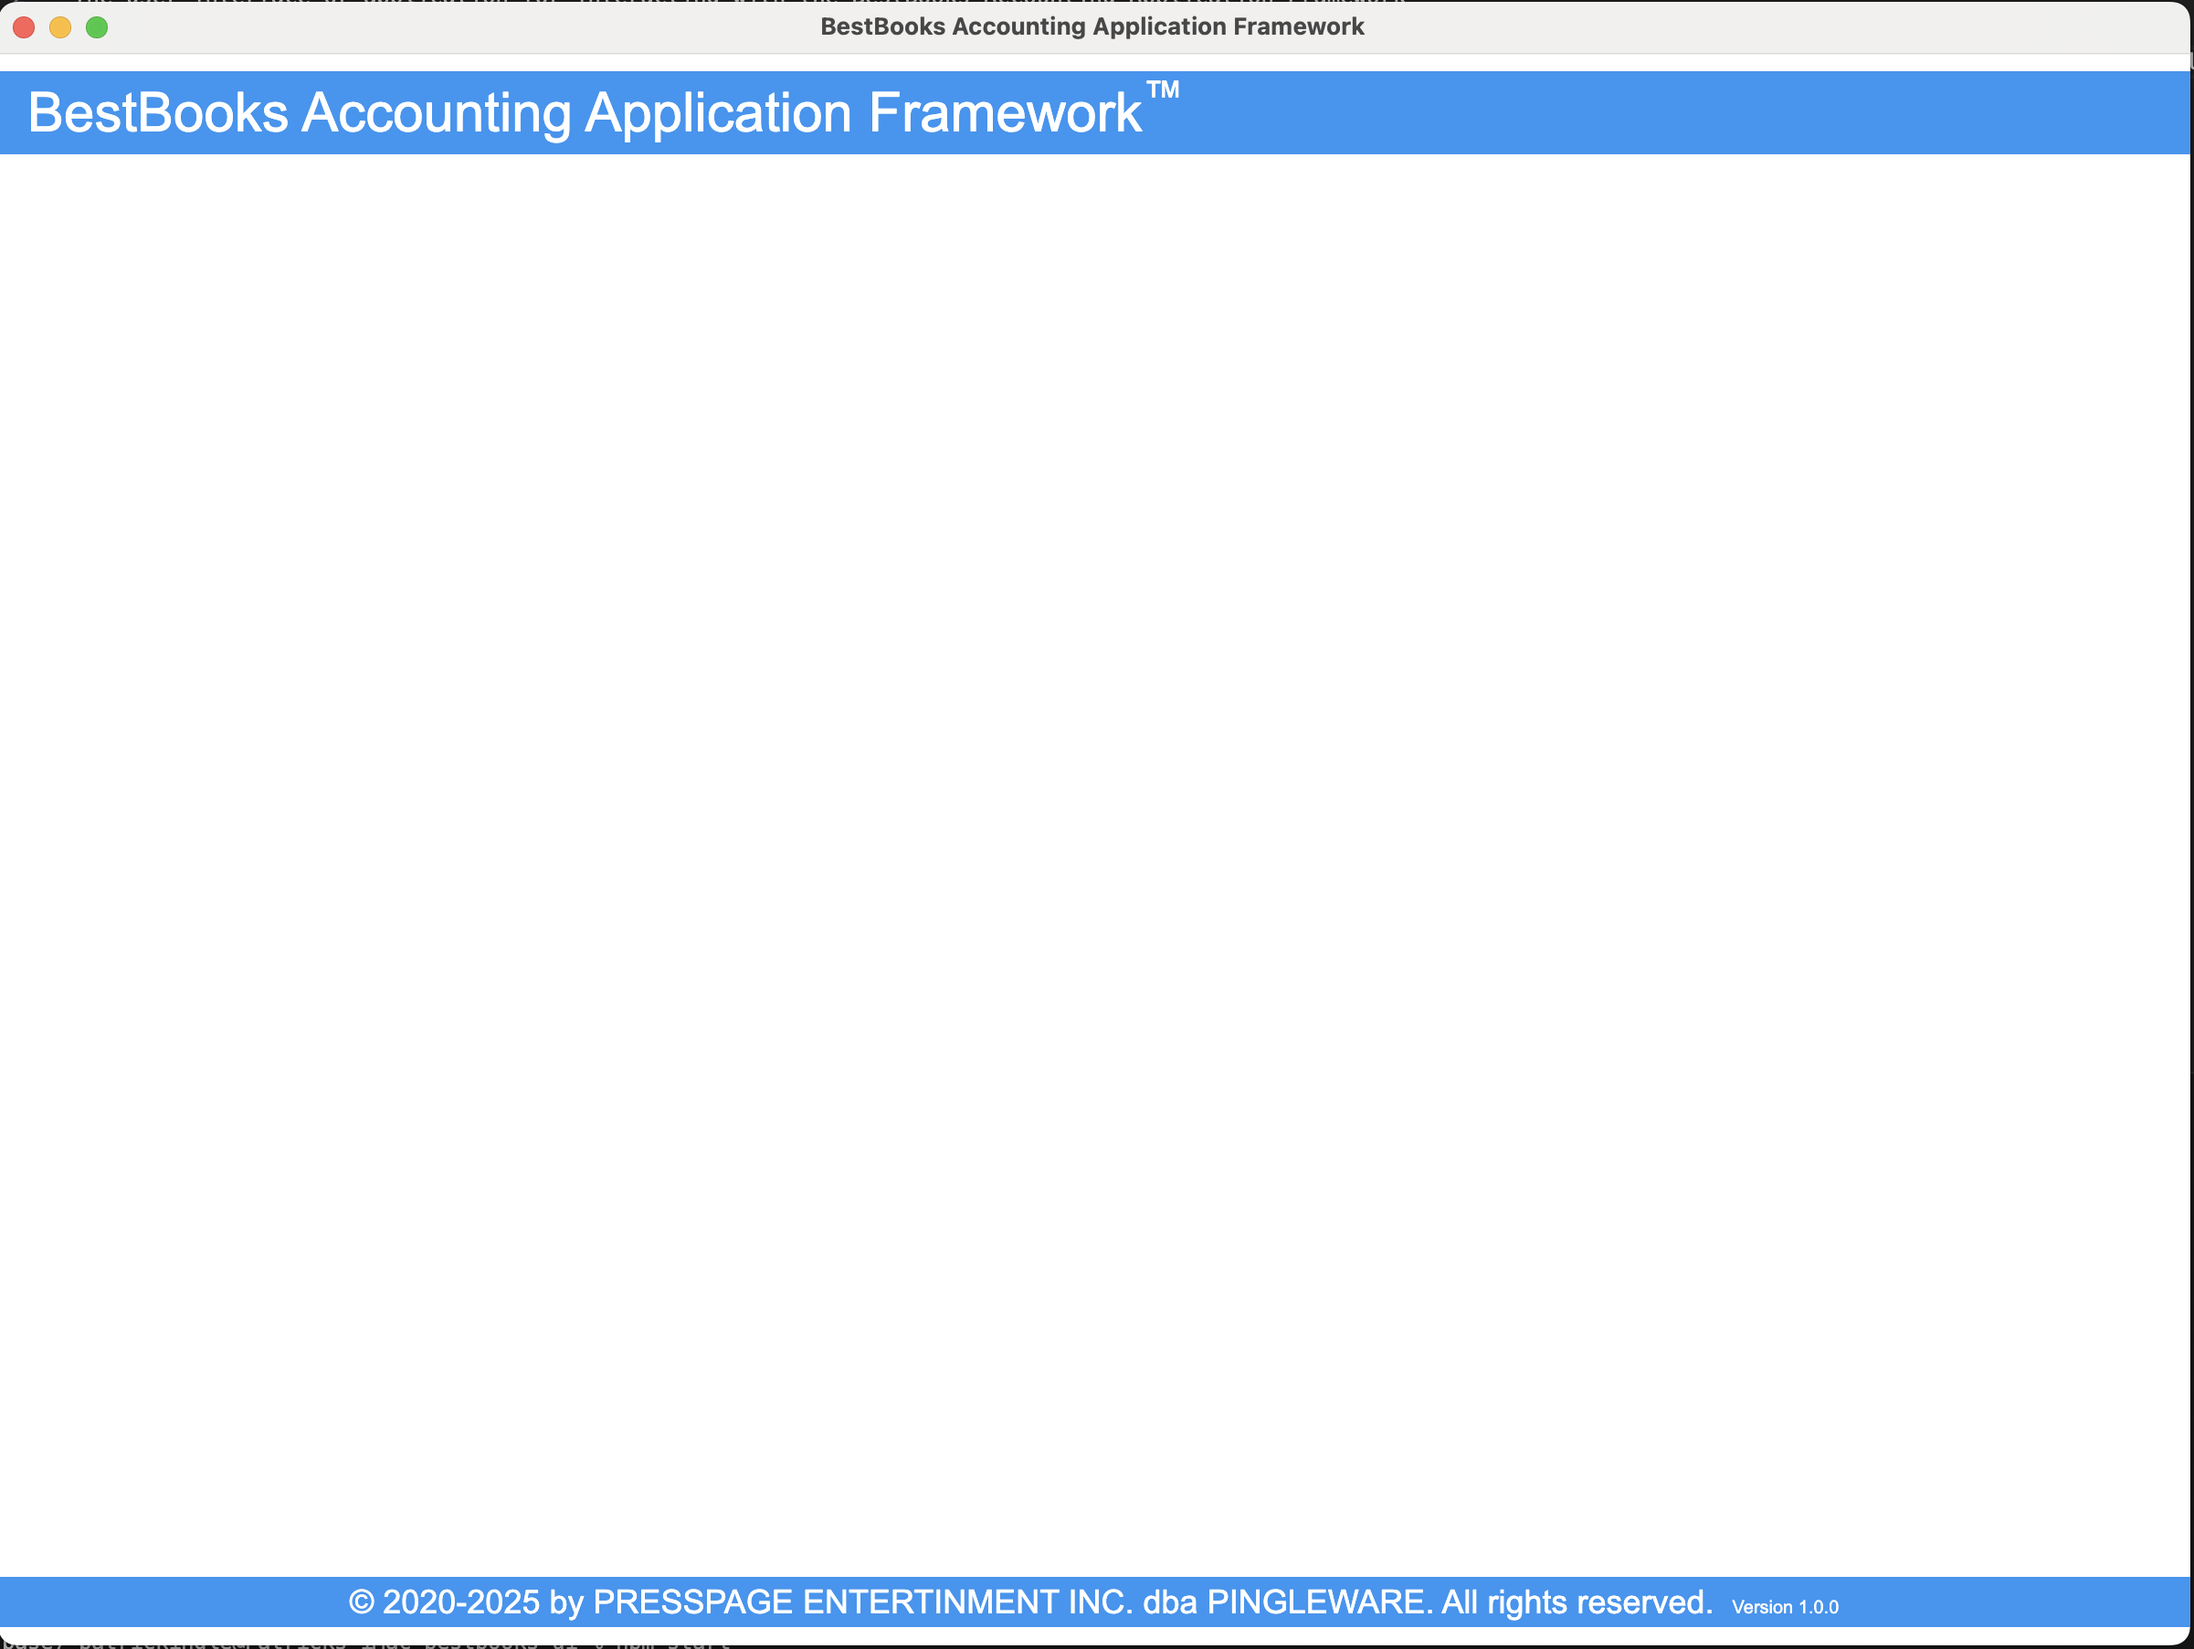
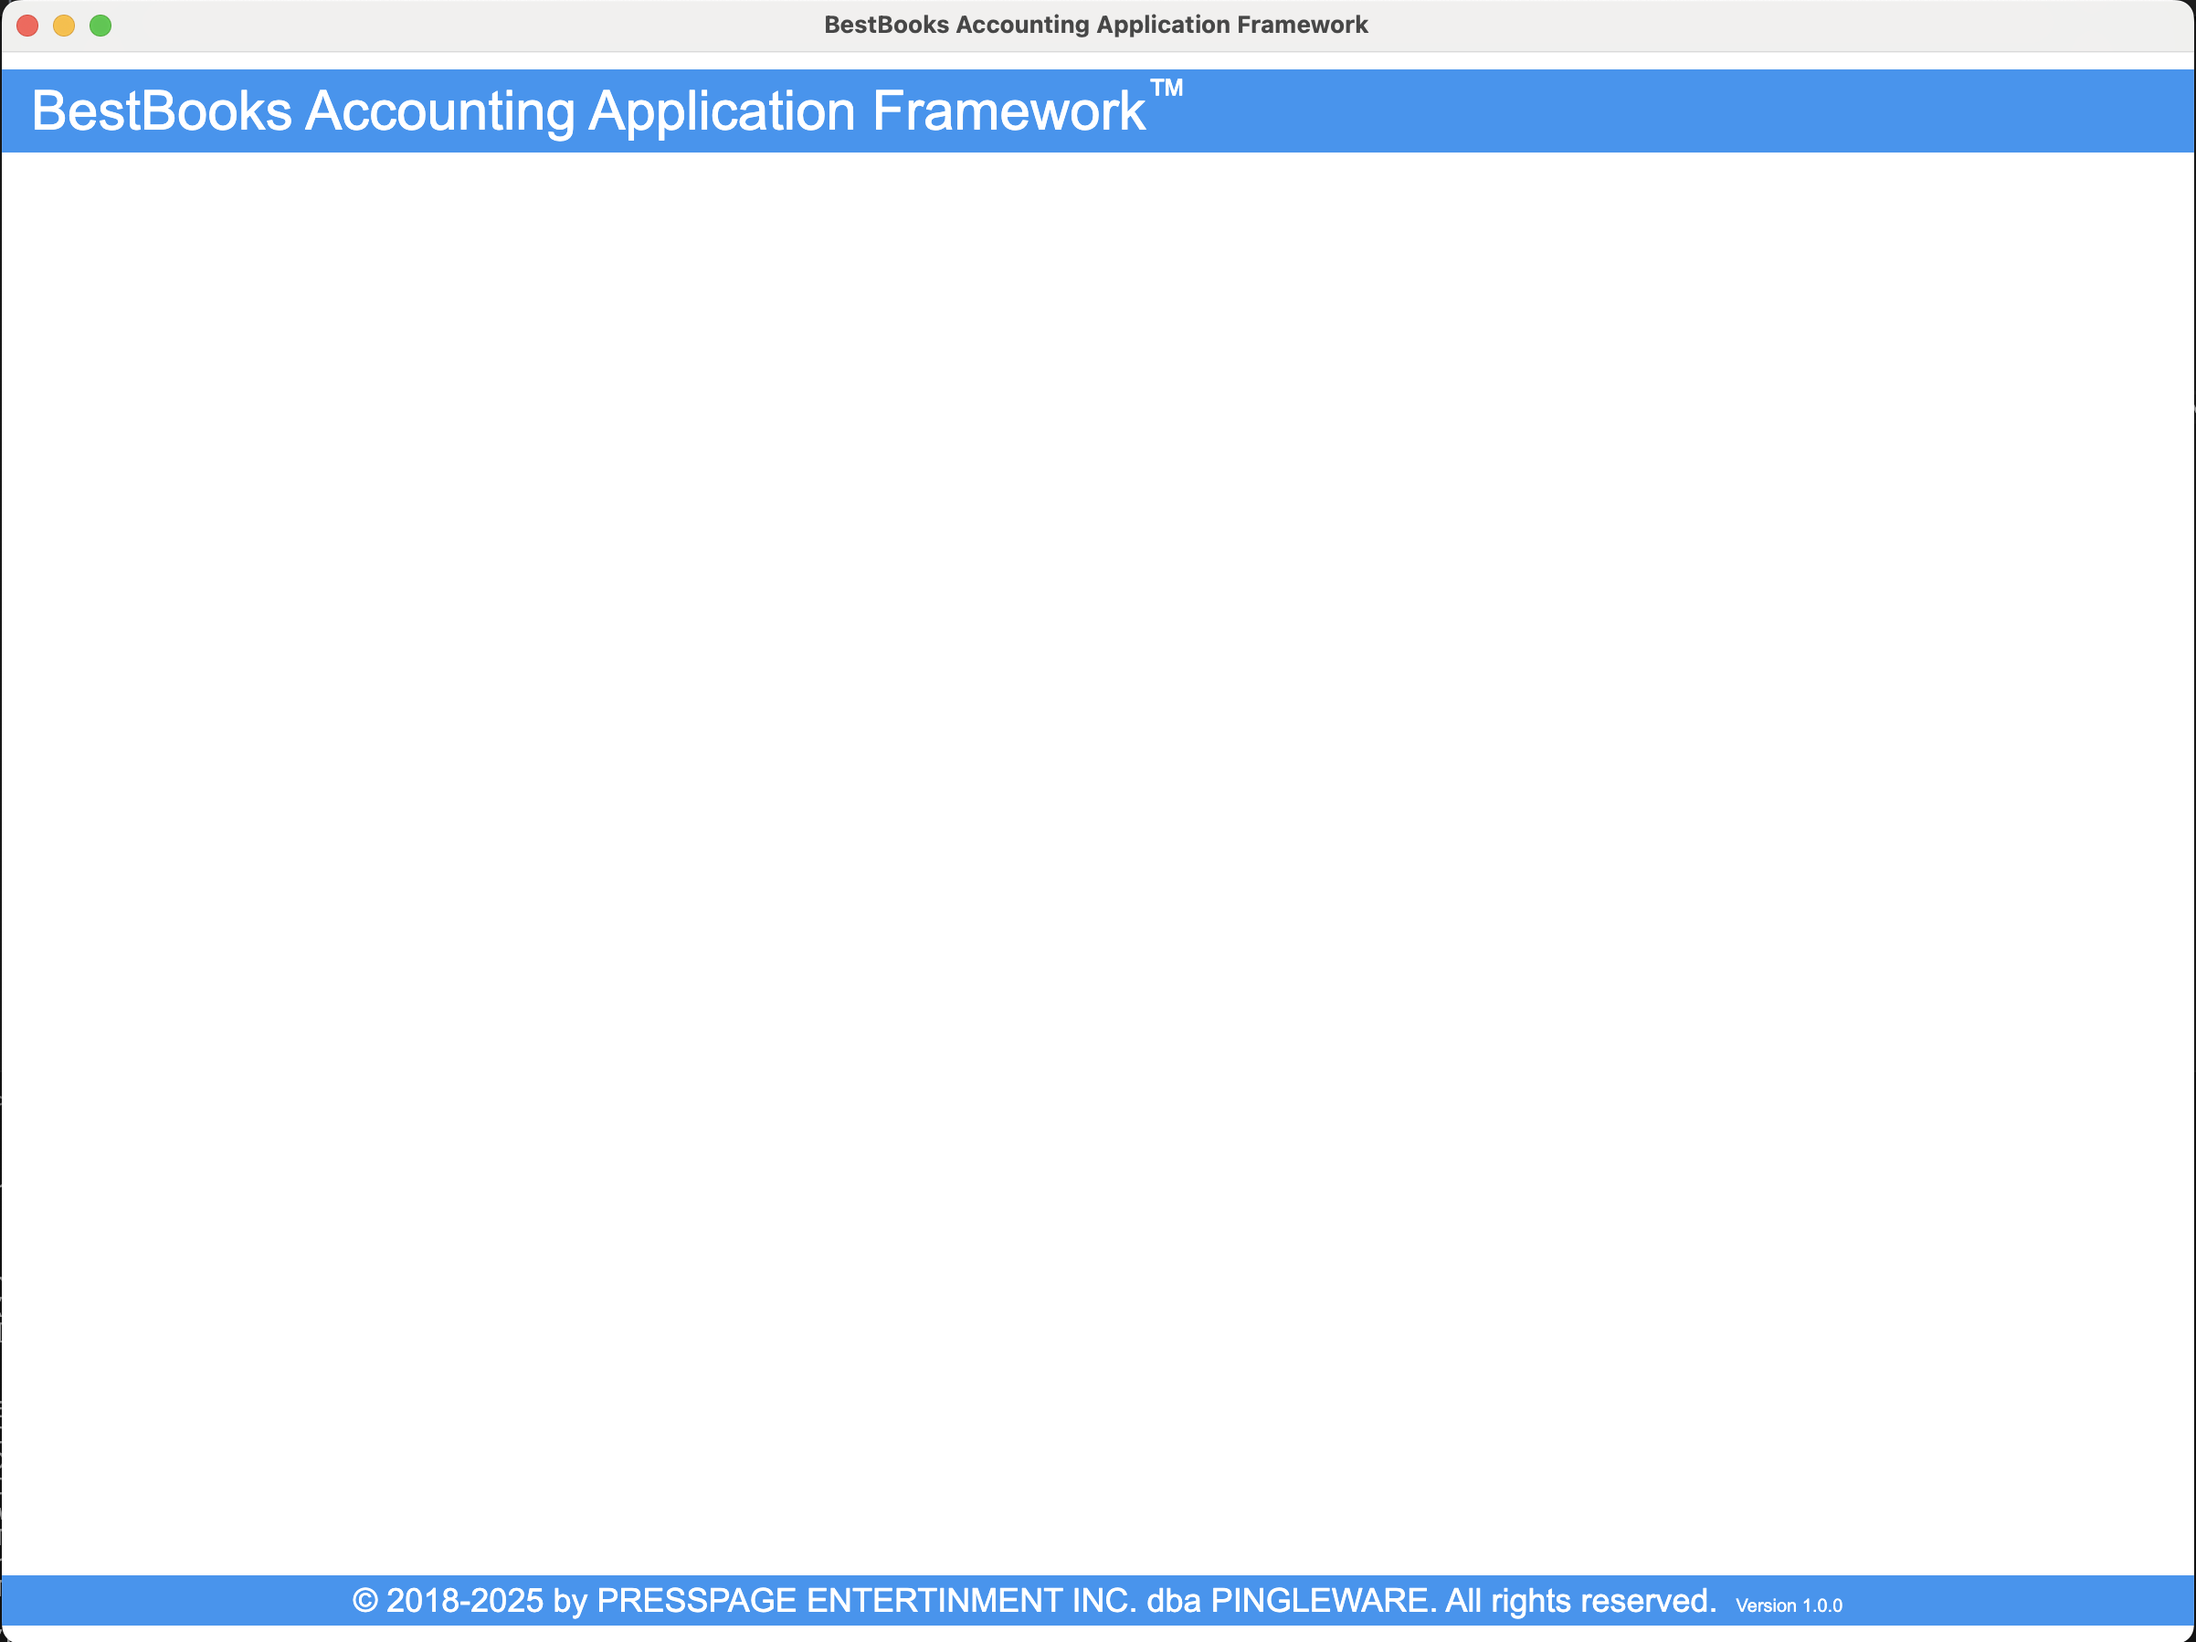
add preview.png

Changed region(s): [[0.0, 0.9344, 0.9992, 1.0], [0.0, 0.0, 0.6245, 0.0934], [0.9992, 0.0311, 1.0, 0.0623]]

diff --git a/packages/bestbooks-ui/views/index.html b/packages/bestbooks-ui/views/index.html
@@ -29,7 +29,7 @@
         <!-- MAIN -->
         <!-- FOOTER -->
         <h5 class="w3-container w3-blue footer">
-            &copy; 2020<span id="year"></span> by <a href="https://presspage-entertainment.biz" target="_system" style="text-decoration: none">PRESSPAGE ENTERTINMENT INC.</a> dba <a href="https://pingleware.work" target="_system" style="text-decoration: none">PINGLEWARE</a>. All rights reserved.
+            &copy; 2018<span id="year"></span> by <a href="https://presspage-entertainment.biz" target="_system" style="text-decoration: none">PRESSPAGE ENTERTINMENT INC.</a> dba <a href="https://pingleware.work" target="_system" style="text-decoration: none">PINGLEWARE</a>. All rights reserved.
             &nbsp;<span id="version" class="w3-tiny"></span>
         </h5>   
         <!-- JAVASCRIPT -->
